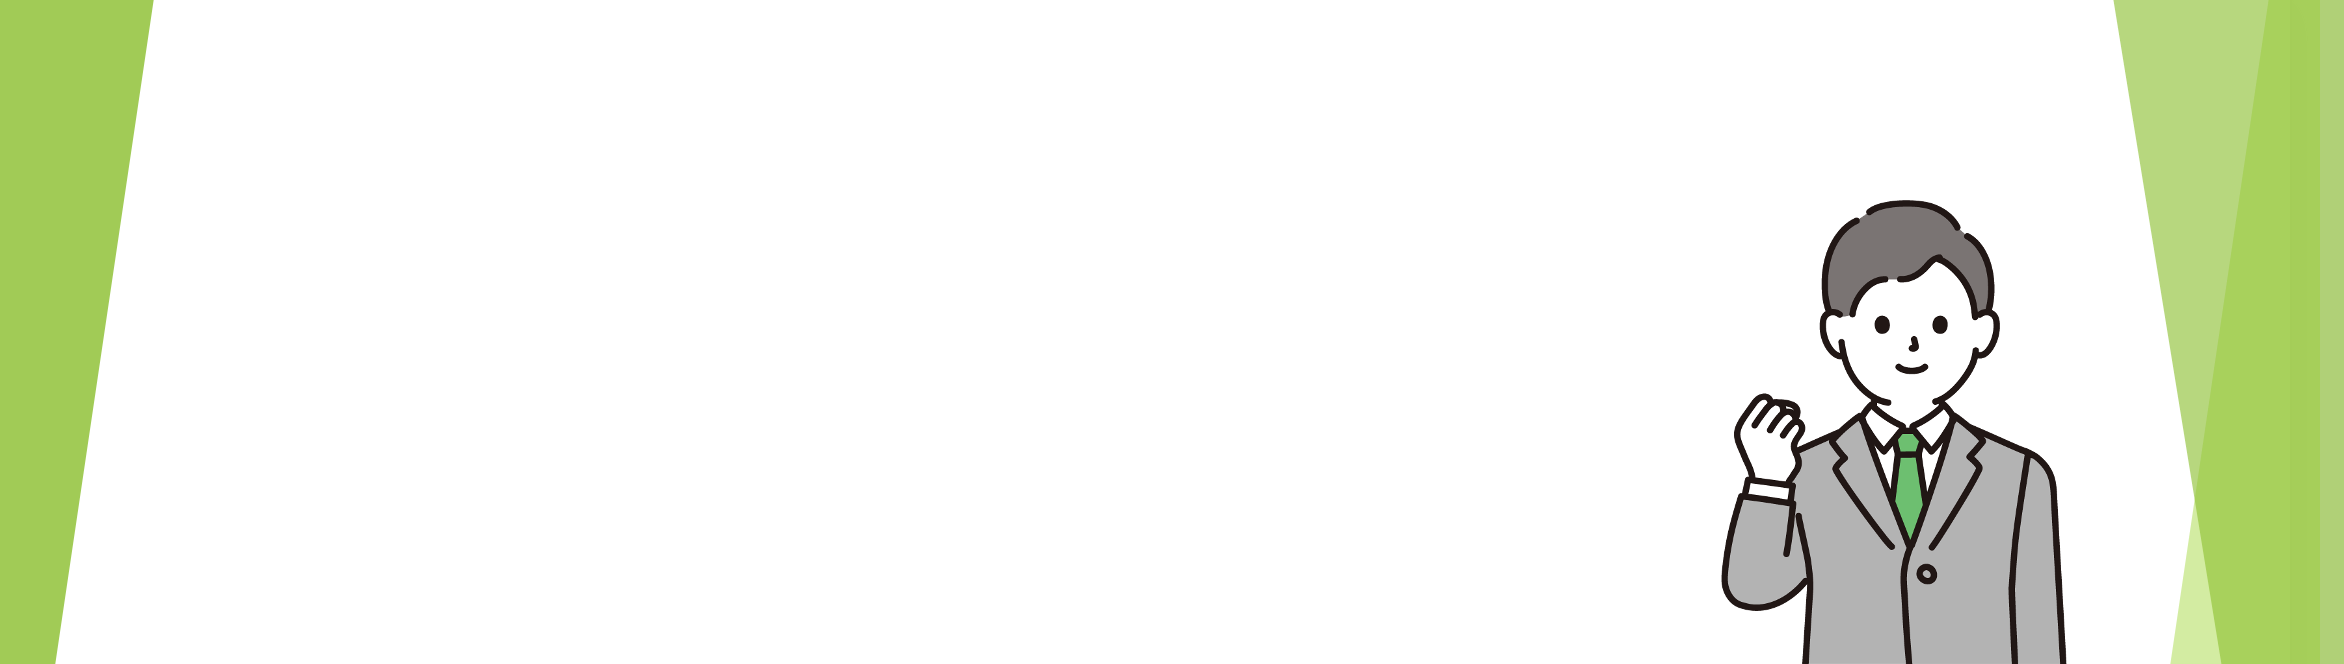
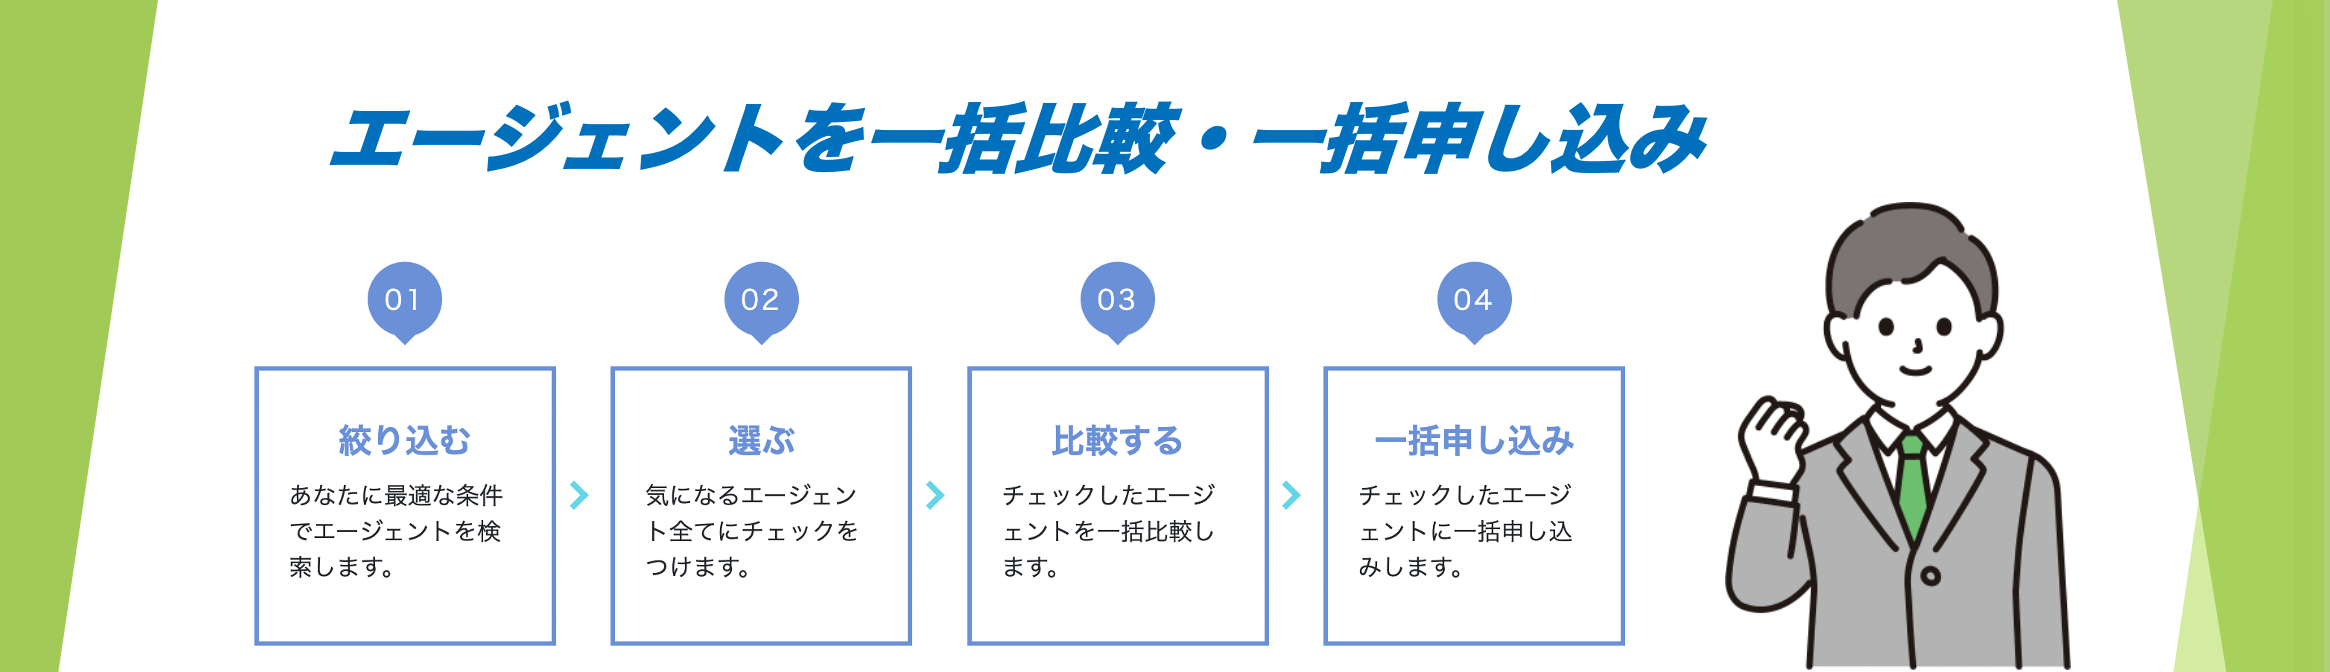
ファーストビュー修正（スマホ版は健介にパス）

diff --git a/src/user/css/toppage.css b/src/user/css/toppage.css
@@ -19,10 +19,16 @@ main{
     height: 400px;
     position: relative;
 }
-
+.moji{
+    font-size: 40px;
+}
 .first-view > ul {
     padding: 5rem;
   }
+
+.pc{
+    display: none;
+}
 li {
     list-style-type: none;
 
@@ -30,6 +36,7 @@ li {
   dd {
     margin-left: 0;
   }
+ 
   .flow {
     display: -webkit-box;
     display: -ms-flexbox;
@@ -93,7 +100,7 @@ li {
     transform: rotate(45deg);
   }
   .flow > li dl dt {
-    font-size: 20px;
+    font-size: 1.4rem;
     font-weight: 600;
     color: rgb(107,144,219);
     -ms-flex-preferred-size: 20%;
@@ -295,6 +302,38 @@ li {
     .position-fixed{
         display: none;
     }
+
+    .sp{
+        display: none;
+    }
+
+    .pc{
+        display: block;
+        max-width: 480px;
+        object-fit: contain;
+    }
+
+    .flow{
+        width: 100%;
+        font-size: 10%;
+        /* font-size: 1rem; */
+        /* margin-right: 4rem; */
+        margin: 0;
+        padding: 0;
+    }
+
+
+    .flow > li dl dt {
+        font-size: 0.4rem;
+        font-weight: 600;
+        color: rgb(107,144,219);
+        -ms-flex-preferred-size: 20%;
+        flex-basis: 20%;
+        margin-bottom: 1vh;
+        /* margin-right: 2rem; */
+        text-align: center;
+
+      } 
 }
 
 .company-content-wrapper{

diff --git a/src/user/html/toppage.php b/src/user/html/toppage.php
@@ -124,39 +124,8 @@ $agency_feature_comparison = $stmt->fetchAll();
     </header>
     <main>
         <div class="first-view">
-        <img src="../img/firstview.png" alt="first-view" class="first-view-img" >
-            <ul class="flow">
-                <li>
-                    <span class="icon">01</span>
-                    <dl>
-                        <dt>絞り込む</dt>
-                        <dd>あなたに最適な条件でエージェントを検索します。</dd>
-                    </dl>
-                </li>
-
-                <li>
-                    <span class="icon">02</span>
-                    <dl>
-                        <dt>選ぶ</dt>
-                        <dd>気になったエージェント全てにチェックをつけます。</dd>
-                    </dl>
-                </li>
-
-                <li>
-                    <span class="icon">03</span>
-                    <dl>
-                        <dt>比較する</dt>
-                        <dd>一括比較しぴったりのエージェントをお選びいただきます。</dd>
-                    </dl>
-                </li>
-
-                <li>
-                    <span class="icon">04</span>
-                    <dl>
-                        <dt>一括申し込み</dt>
-                        <dd>気になるエージェント全てに一括申し込みします。</dd>
-                    </dl>
-                </li>
+            <img src="../img/firstview.png" alt="first-view" class="first-view-img sp">
+            <img src="../img/firstview-sp.png" alt="first-view" class="first-view-img pc">
 
         </div>
         <div class="text-center button">
